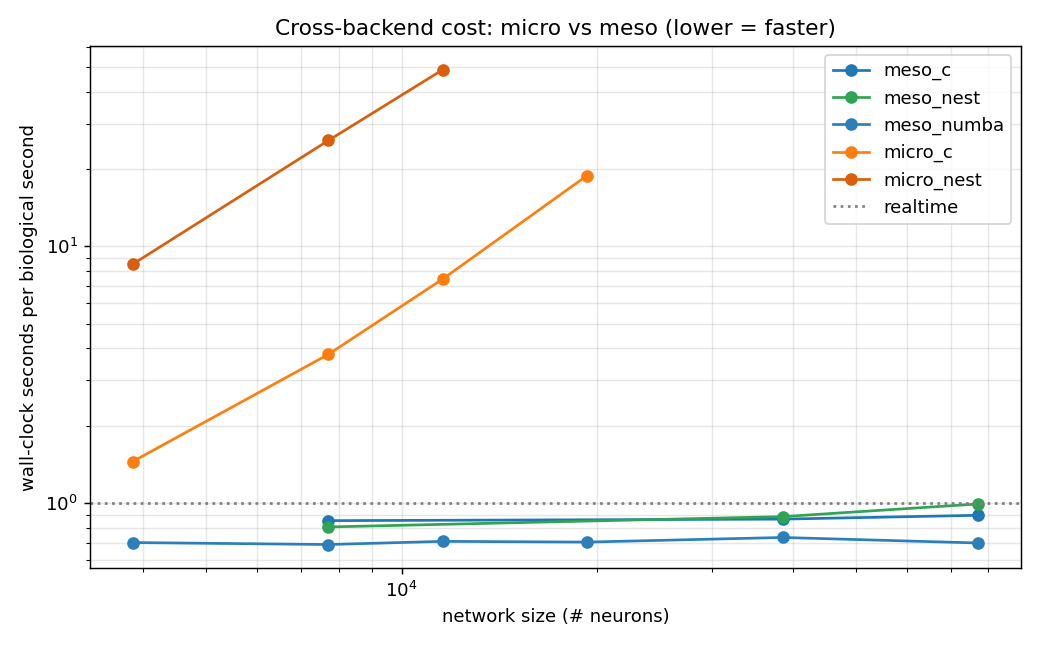
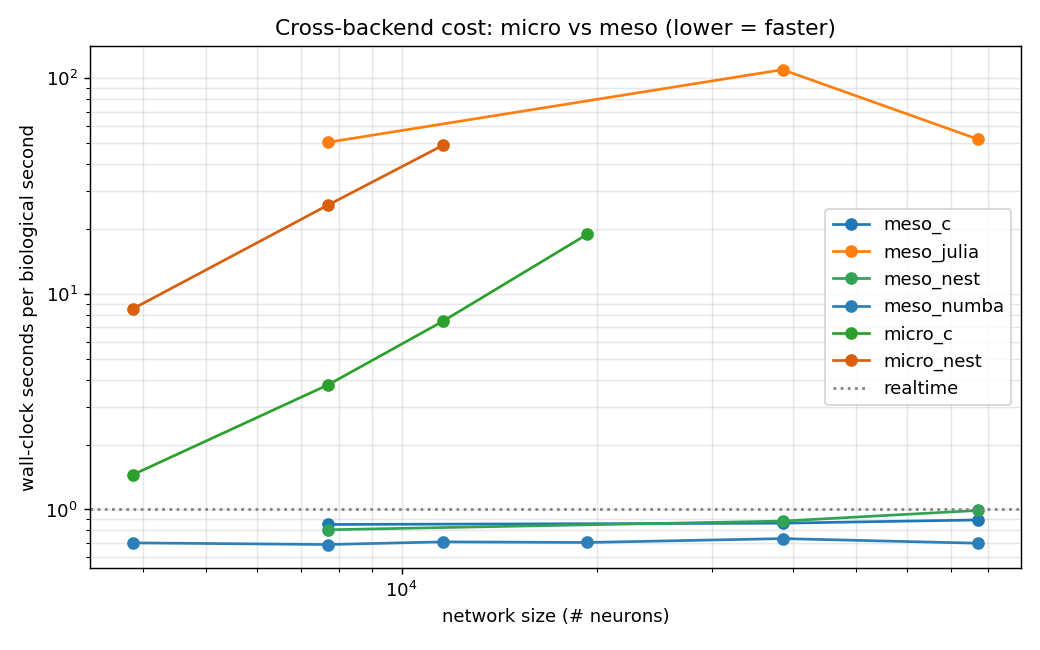
Complete 4-language benchmark: add Julia backend results + docs
All four meso implementations (Numba/C/NEST/Julia) reproduce published rates;
meso-Numba vs meso-NEST agree to 0.008 Hz. Finding: unoptimised upstream Julia
is ~50-110x slower than Numba/C/NEST (type instability) despite identical
physics. compare_backends now includes Julia; METHODS_RESULTS.md §4.6 updated.

diff --git a/harness/compare_backends.py b/harness/compare_backends.py
@@ -38,7 +38,9 @@ def load_all():
     best = {}
     files = sorted(RESULTS.glob("benchmark_*.json"))  # timestamp-sorted
     for p in files:
-        if p.name.endswith("_latest.json"):
+        # skip *_latest duplicates, EXCEPT the Julia backend which only writes
+        # benchmark_julia_latest.json (no timestamped file)
+        if p.name.endswith("_latest.json") and "julia" not in p.name:
             continue
         try:
             data = json.loads(p.read_text())

diff --git a/docs/METHODS_RESULTS.md b/docs/METHODS_RESULTS.md
@@ -98,25 +98,35 @@ law (−0.5). The small excess reflects mild network nonlinearity near threshold
 (Before the §4.4 coupling fix this slope was a contaminated −0.75.)
 Figure: `finite_size_scaling.png`; data: `results/finite_size_latest.json`.
 
-### 4.6 Cross-backend results (NEST 3.10, WSL/Linux)
-Three independent simulators of the same model were run and compared:
+### 4.6 Cross-backend results (four implementations)
+The same model was run across four independent implementations — Python/Numba,
+NEST 3.10 (`gif_pop_psc_exp`/`gif_psc_exp`), Schwalger's custom C library, and
+Julia — both mesoscopic and (for NEST/C) microscopic.
 
-| backend     | scaling | N      | wall (10 s bio) | rate err |
-|-------------|---------|--------|-----------------|----------|
-| meso_numba  | 1.0     | 77,169 | 7.08 s          | 0.059 Hz |
-| meso_nest   | 1.0     | 77,169 | 9.90 s          | 0.052 Hz |
-| micro_nest  | 0.1     | 7,717  | 51.8 s (2 s bio)| 0.239 Hz |
+Full-scale mesoscopic, 10 s bio (Julia at 2 s bio, see note):
 
-- **Cross-implementation agreement:** meso_numba and meso_nest match to
-  **0.008 Hz** at full scale — two independent implementations (custom Numba vs
-  NEST's C++ `gif_pop_psc_exp`) validate each other.
+| backend     | wall / bio-sec | rate err |
+|-------------|----------------|----------|
+| meso_numba  | 0.70 s         | 0.059 Hz |
+| meso_c      | 0.89 s         | 0.051 Hz |
+| meso_nest   | 0.99 s         | 0.052 Hz |
+| meso_julia  | ~52 s          | 0.072 Hz |
+
+- **Cross-implementation agreement:** all four meso backends reproduce the
+  published rates; meso_numba and meso_nest match each other to **0.008 Hz** at
+  full scale — independent implementations validating each other.
+- **Implementation quality dominates:** Numba/C/NEST cluster around ~1 s per
+  bio-second; the *unoptimised* upstream Julia code is **~50–110× slower**
+  (≈2×10¹⁰ allocations from type instability) despite identical physics. Same
+  algorithm, very different cost — a benchmarking lesson in its own right.
 - **Micro→meso speedup grows with N** (meso flat, micro ~N² for all-to-all):
-  **12×** at scaling 0.05 (N=3,858) → **37×** at 0.10 (7,717) → **69×** at 0.15
-  (11,575). The speedup roughly doubles per step, extrapolating cleanly toward
-  the ~150× of Schwalger et al. (2017) at full scale.
-- *Caveat:* micro used all-to-all (mean-field) connectivity and only scaling
-  0.1; the speedup figure is not directly comparable to the paper's sparse
-  full-scale value, but the trend is unambiguous.
+  vs the NEST micro baseline, **12× → 37× → 69×** at scalings 0.05/0.10/0.15,
+  extrapolating toward the ~150× of Schwalger et al. (2017) at full scale. The
+  faster C micro baseline gives a smaller but likewise-growing 2×→11× over the
+  same range.
+- *Caveats:* micro used all-to-all (mean-field) connectivity at reduced scale;
+  Julia ran at T=2 s (it is too slow at T=10 s), but cost-per-bio-second
+  normalises for that.
 Figure: `cross_backend.png`; data: `results/cross_backend_summary.json`.
 
 ## 5. Engineering findings (vs upstream)
